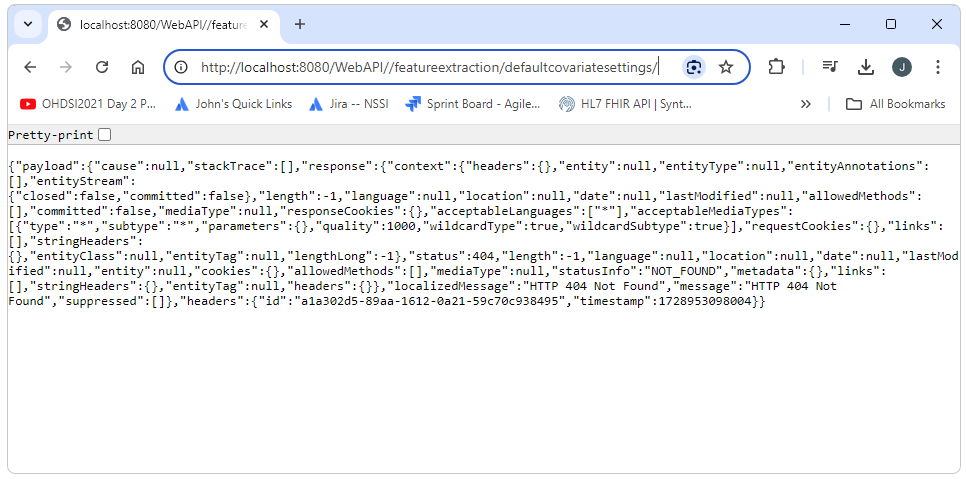
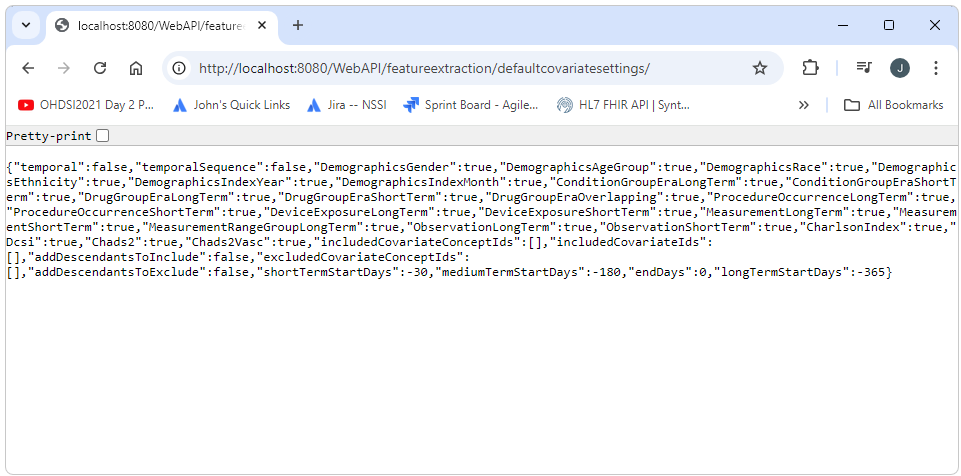
work in progress on documentation

diff --git a/docs/howto-webapi-dev-env.html b/docs/howto-webapi-dev-env.html
@@ -648,7 +648,7 @@ a browser and calling one of the end points. For this example the url
 below can be used. A successful outcome should look something like the
 screen shot shown below.
 <pre class="pre-scrollable">
-http://localhost:8080/WebAPI//featureextraction/defaultcovariatesettings/
+http://localhost:8080/WebAPI/featureextraction/defaultcovariatesettings/
 </pre>
 <img src="img/dev-env/success.png" />
 </p>
